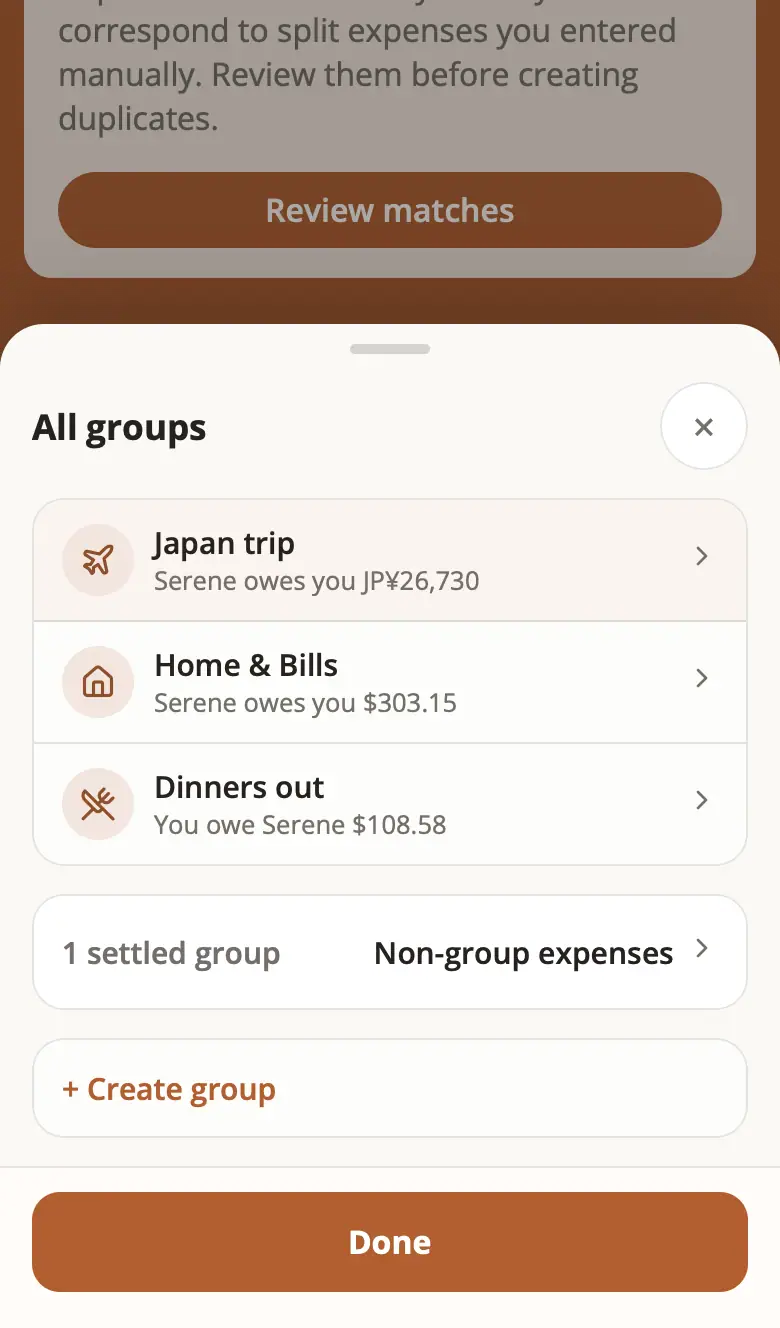
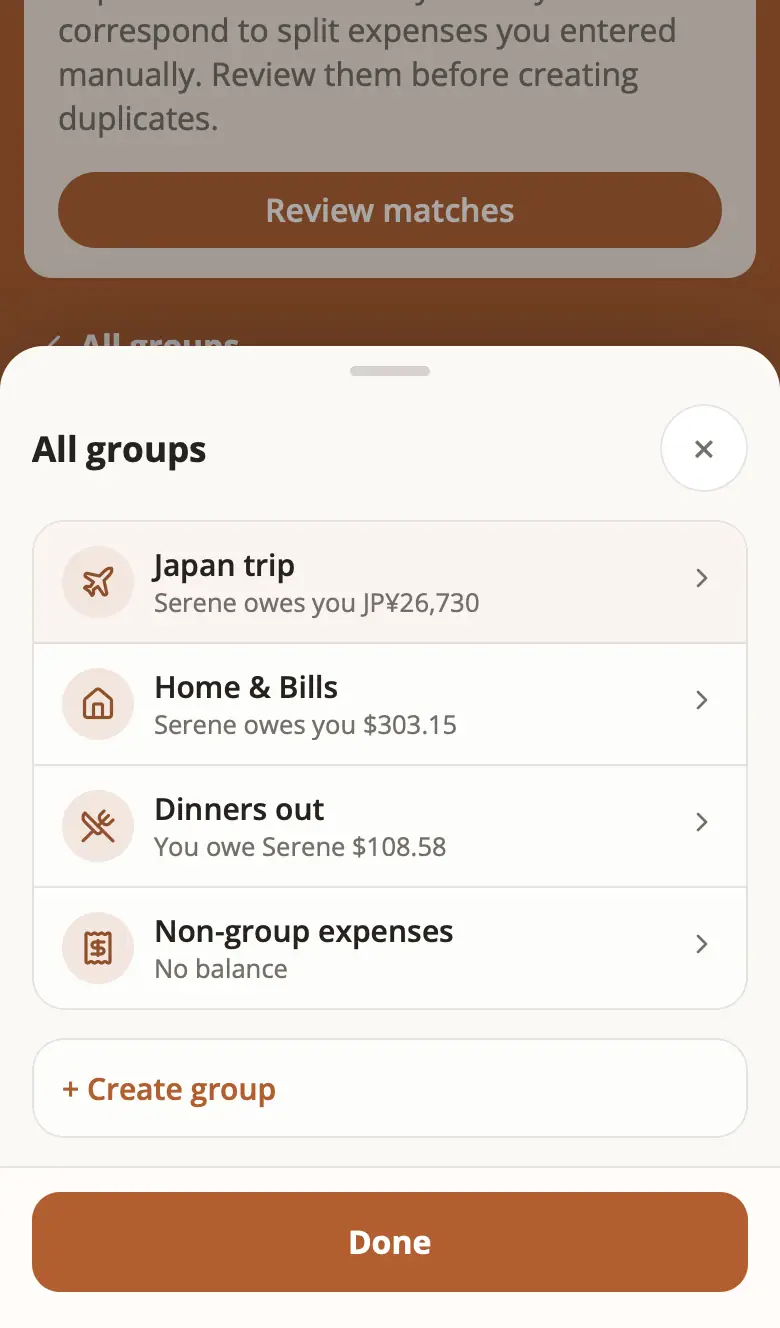
Mockups: Splits group strip D2 (compact All/New tiles on the same row: D2d, D2, D2b, D2c), non-group label

diff --git a/docs/proposals/ui-language-round2/tools/kit.js b/docs/proposals/ui-language-round2/tools/kit.js
@@ -22,6 +22,7 @@
     tag: '<path d="M12.586 2.586A2 2 0 0 0 11.172 2H4a2 2 0 0 0-2 2v7.172a2 2 0 0 0 .586 1.414l8.704 8.704a2.426 2.426 0 0 0 3.42 0l6.58-6.58a2.426 2.426 0 0 0 0-3.42z"/><circle cx="7.5" cy="7.5" r=".5" fill="currentColor"/>',
     sparkles: '<path d="M9.94 14.06 4 20M14 4l1.5 3.5L19 9l-3.5 1.5L14 14l-1.5-3.5L9 9l3.5-1.5z"/>',
     arrows: '<path d="m16 3 4 4-4 4M20 7H4M8 21l-4-4 4-4M4 17h16"/>',
+    list: '<path d="M8 6h13M8 12h13M8 18h13M3 6h.01M3 12h.01M3 18h.01"/>',
     plus: '<path d="M5 12h14M12 5v14"/>',
     receipt: '<path d="M4 2v20l2-1 2 1 2-1 2 1 2-1 2 1 2-1 2 1V2l-2 1-2-1-2 1-2-1-2 1-2-1-2 1Z"/><path d="M16 8h-6a2 2 0 1 0 0 4h4a2 2 0 1 1 0 4H8M12 17.5v-11"/>',
     eye: '<path d="M2.062 12.348a1 1 0 0 1 0-.696 10.75 10.75 0 0 1 19.876 0 1 1 0 0 1 0 .696 10.75 10.75 0 0 1-19.876 0"/><circle cx="12" cy="12" r="3"/>'

diff --git a/docs/proposals/ui-language-round2/README.md b/docs/proposals/ui-language-round2/README.md
@@ -126,9 +126,54 @@ Images: `splits-groups-D-phone-strip`, `-D-phone-hidden-strip`,
 `-D-phone-scrolled` (collapsed bar), `-D-phone-hidden-scrolled`,
 `-D-phone-all-sheet`, `-D-desktop-strip`, `-D-desktop-hidden-strip`.
 
-Recommendation: A, with "open the last used group" so the list is one tap
-back rather than a toll; D if the per-group summaries on the first screen
-matter more than keeping the app free of sideways scrolling.
+**D2: the owner's choice. D with no second row.** The strip keeps D's tiles
+(white Lead tile for the open group, translucent Support tiles, in the page
+flow, collapsing into the floating bar on scroll). "All groups" and "+ Create
+group" become compact tiles on the same row, the same height as the group
+tiles: about 68 px wide, icon on top and a short label ("All", "New"), dashed
+outline, white on the orange, 44 px+ targets, with the aria-labels "All groups"
+and "Create group". Phone: the row scrolls as in D. Desktop: one row, no wrap and
+no scroll; the tiles that fit are shown and "All" carries the count ("All · 2
+more") when some do not (`-count-` images force a narrow row to show it).
+Four placements are mocked (all phone and desktop, normal and hidden money; the
+`-end` images are the row scrolled to its end):
+
+- **D2d (the owner's favourite candidate): one compact tile first, split in
+  two.** "New" over "All" in one 68 px tile divided by a hairline, each half a
+  separate 44 px+ button. Two 44 px halves make every tile in the row 89 px
+  tall (about 25 px more than the 64 px tiles of D), and the strip is always at its start so both buttons
+  are visible without scrolling. The next group tile peeks after the lead tile.
+  Images: `splits-groups-D2d-phone-strip`, `-D2d-phone-hidden-strip`,
+  `-D2d-phone-end`, `-D2d-desktop-strip`, `-D2d-desktop-hidden-strip`,
+  `-D2d-desktop-count-strip`.
+- **D2: "All" first, "New" last.** "All" is always visible left of the open
+  group; "New" ends the row. The next group tile still peeks after All and the
+  open group. Images: `splits-groups-D2-phone-strip`, `-D2-phone-end`,
+  `-D2-phone-scrolled` (collapsed bar), `-D2-desktop-strip` and the hidden ones.
+- **D2b: both compact tiles first**, then the open group, then the others.
+  Both always visible, but they push the open group right by about 150 px so
+  less of the next tile peeks. Images: `splits-groups-D2b-*`.
+- **D2c: both tiles last.** Smallest change from D, but "All" and "New" are
+  only reachable after scrolling to the end on a phone (the floating bar and the
+  sheet are the other way in). Images: `splits-groups-D2c-*`.
+
+Why D2d first: the two actions are always in view and do not cost row width
+twice, at the price of a taller row. If 89 px is too tall, D2 (All first,
+New last) is the next best: the same height as D (64 px) with "All" always
+visible.
+
+"Non-group expenses" is not a group. I labelled its tile with its own balance
+in plain words, or "No balance" when it is zero (the demo's is zero), kept it
+after the real groups and before any settled group, and in the group list
+(A, B) it is an ordinary row, not folded into "settled groups". "Settled" now
+only labels a real group whose balance is zero; the demo has none, so the
+muted settled tile style is not in the pictures. The A, B, C and D images were
+regenerated with the new label and order. With money hidden no tile is ordered
+or worded by who owes whom.
+
+Recommendation: D2d (or D2) for Splits; A remains the alternative that
+removes the sideways scroll altogether, with "open the last used group" so the
+list is one tap back rather than a toll.
 
 ## 2. Entries totals and filters
 
